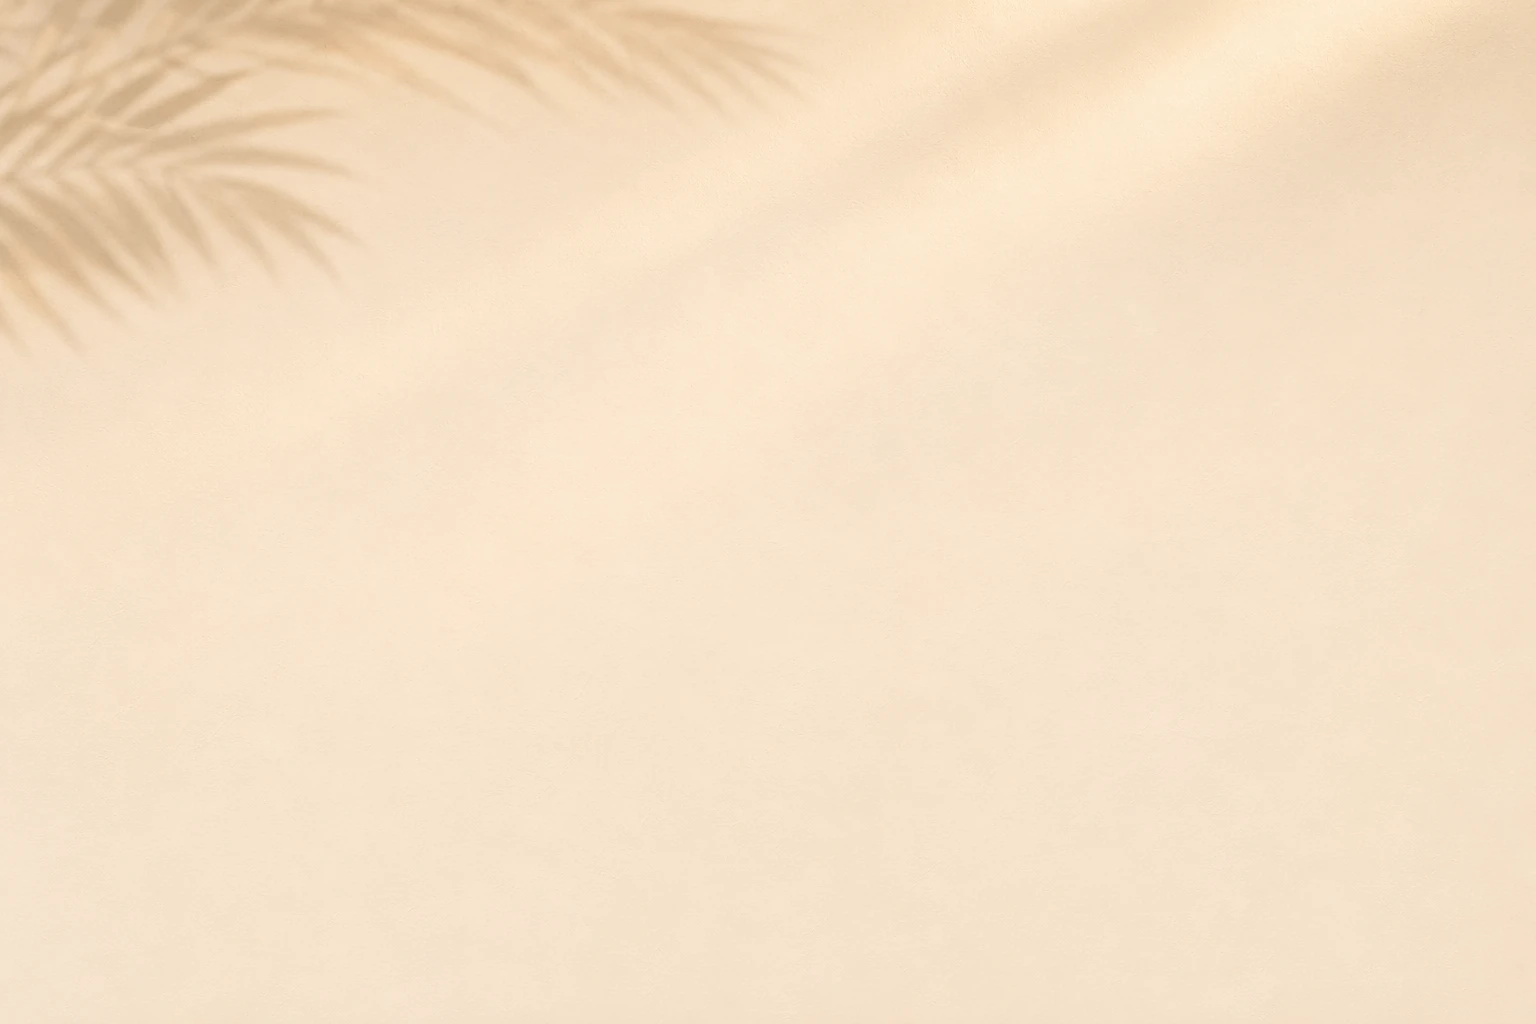
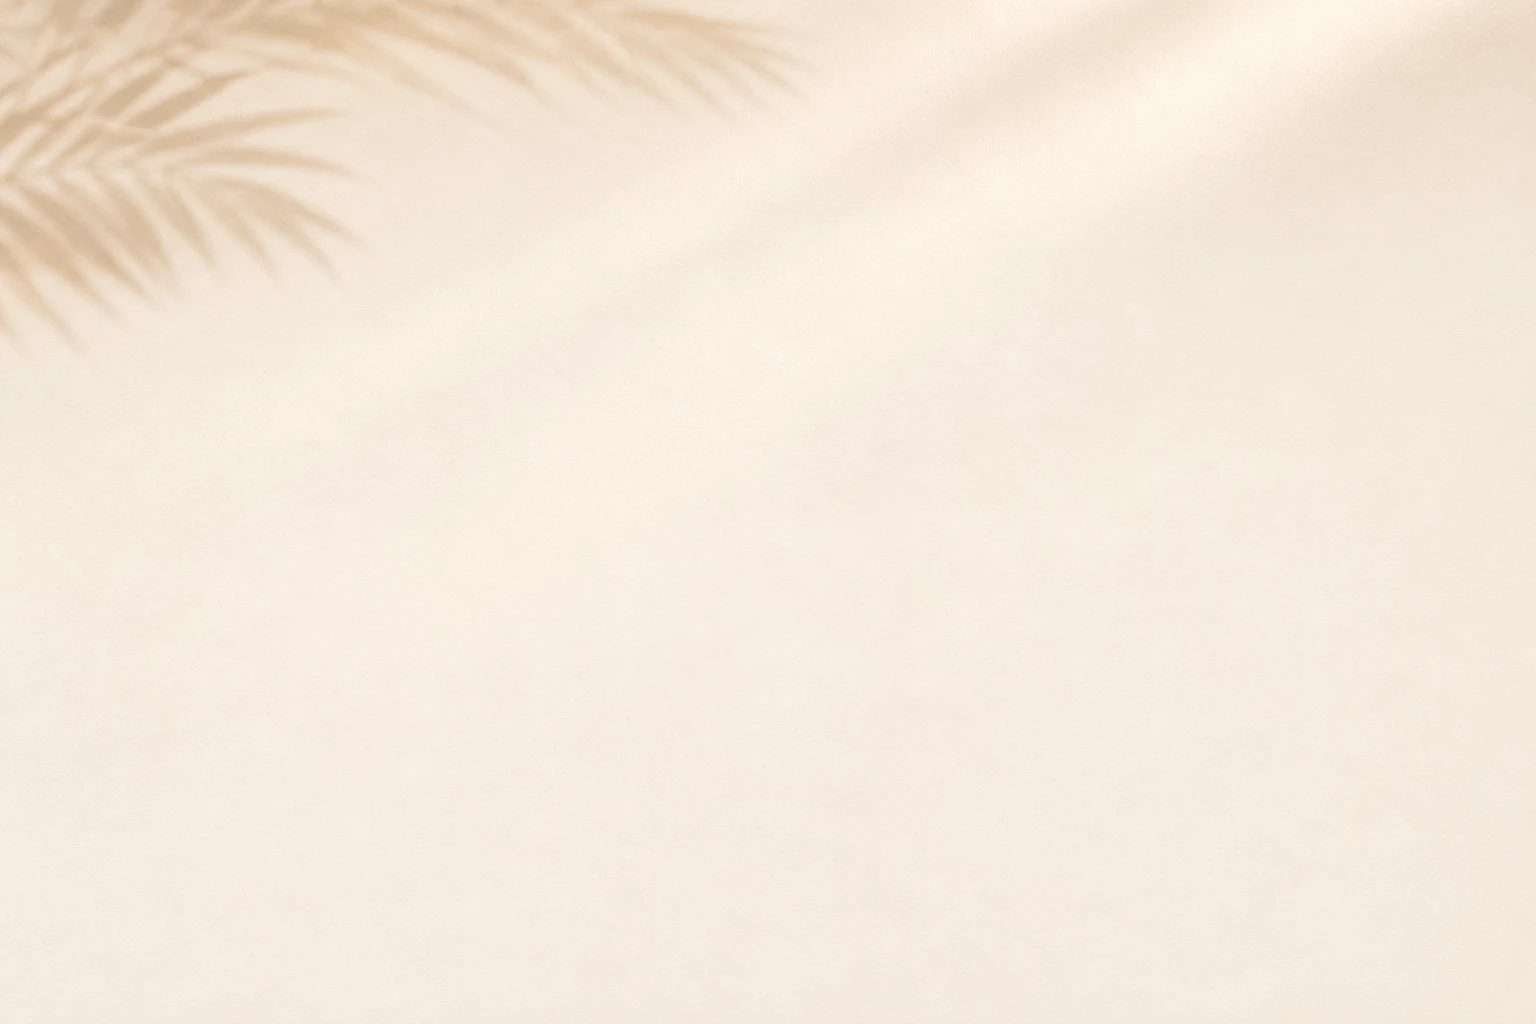
Grade the closing wall to Amelia's cream and keep her fronds above the words
The photo is graded to her wall's pale cream: its wall was apricot, about
twice as saturated as hers, while its frond shadows were already her warm
tan, so the chroma is halved on the wall and mostly kept in the shadows.

On a phone the photo is held at its top and centre, and the words start
88px down, so the fronds frame the top left above the heading, as hers do,
instead of running behind its first words.

The band waits in the wall's colour, and in the dark theme in the dimmed
wall's colour, not page black. The button's focus ring takes the deeper
gold on the wall. In print, the divider's rules are borders, so paper that
drops backgrounds no longer prints them as white lines across the wall.

The test reads the homepage's own rules by scope and pins the stacking,
padding, hold, positions, fills, dark dimming, its print reset and their
order, the divider's print borders and the dark theme's floor.

diff --git a/tests/build.test.ts b/tests/build.test.ts
@@ -511,18 +511,18 @@ describe('the homepage, in her six sections', () => {
     expect(closing).toContain('href="/ja/contact"');
   });
 
-  // Her contact call (06) stands on a warm wall in late sun, palm fronds'
-  // shadows at its top left: a band the page's full width, from under the
-  // reservation note to the footer, with no line between. The photo only
-  // sets the light (empty alt) and is below the fold (lazy). Held at its
-  // top left, as she asks a phone to crop it; in the dark theme it dims
-  // under the light words.
+  // Her contact call (06) stands on a pale cream wall in late sun, palm
+  // fronds' shadows at its top left: a band the page's full width, from
+  // under the reservation note to the footer, with no line between. The
+  // photo only sets the light (empty alt) and is below the fold (lazy). On
+  // a phone it is held at its top and centre, with the words about a quarter
+  // of the width down, under the fronds; in the dark theme it dims under the
+  // light words, and a printed page is cream from either theme.
   it('stands her closing call on a sunlit wall with palm shadows, into the footer', () => {
     for (const route of ['/', '/ja']) {
       const closing = html(route).match(/<section class="section closing[\s\S]*?<\/section>/)?.[0] ?? '';
       const invite = closing.slice(closing.indexOf('<div class="invite"'));
       expect(invite.indexOf('<h2'), route).toBeGreaterThan(-1);
-      expect(invite.indexOf('<picture'), 'the photo after the words').toBeGreaterThan(invite.indexOf('closing__cta'));
       expect(closing.indexOf('class="reservation plate"'), 'the note before the wall').toBeLessThan(closing.indexOf('<div class="invite"'));
       const img = invite.match(/<img [^>]*>/)?.[0] ?? '';
       expect(img, route).toMatch(/\/_astro\/palm-shadows-plaster\./);
@@ -534,15 +534,74 @@ describe('the homepage, in her six sections', () => {
       const main = html(route).match(/<main[^]*<\/main>/)?.[0] ?? '';
       expect(main.lastIndexOf('<section'), route).toBe(main.indexOf('<section class="section closing'));
     }
-    const rules = css();
-    expect(rules).toMatch(
-      /\.invite\[data-astro-cid-[^\]]+\]\{(?=[^}]*isolation:isolate)(?=[^}]*margin:clamp\(32px,\s?5vw,\s?48px\) calc\(-1 \* var\(--gutter\)\) calc\(-1 \* var\(--section-y\)\))[^}]*\}/,
+
+    // Every rule below is the homepage's own, by its scope.
+    const cid = html('/').match(/<div class="invite"[^>]* data-astro-cid-(\w+)/)?.[1];
+    expect(cid, "the homepage's scope").toBeTruthy();
+    const scoped = (selector: string) => selector.replace(/@/g, `[data-astro-cid-${cid}]`);
+    const rule = (selector: string, from = css()) =>
+      [...from.matchAll(/([^{}]+)\{([^{}]*)\}/g)]
+        .filter(([, s]) => s.trim() === scoped(selector))
+        .flatMap(([, , body]) => body.split(';'));
+
+    // The band: the page's full width, from under the note into the footer,
+    // the words about a quarter of a phone's width down, waiting in the wall's
+    // colour. Its stacking keeps the photo behind the words and inside it.
+    expect(rule('.invite@')).toEqual(
+      expect.arrayContaining([
+        'position:relative',
+        'isolation:isolate',
+        'margin:clamp(32px, 5vw, 48px) calc(-1 * var(--gutter)) calc(-1 * var(--section-y))',
+        'padding:clamp(88px, 9vw, 96px) var(--gutter) var(--section-y)',
+        'background:#f5ebe0',
+      ]),
     );
-    expect(rules).toMatch(
-      /\.invite__photo\[data-astro-cid-[^\]]+\]\{(?=[^}]*position:absolute)(?=[^}]*z-index:-1)(?=[^}]*object-fit:cover)(?=[^}]*object-position:0 0)[^}]*\}/,
+    // The photo fills it, held at its top and centre, sized, not set by
+    // inset, which Safari before 14.1 cannot read.
+    const photo = rule('.invite__photo@');
+    expect(photo).toEqual(
+      expect.arrayContaining([
+        'position:absolute',
+        'top:0',
+        'left:0',
+        'z-index:-1',
+        'width:100%',
+        'height:100%',
+        'object-fit:cover',
+        'object-position:50% 0',
+      ]),
     );
-    expect(rules).toMatch(/html\[data-theme=dark\] \.invite__photo\[data-astro-cid-[^\]]+\]\{filter:brightness\(\.3\)\}/);
-    expect(rules).toMatch(/body:has\(\.invite__photo\) \.site-footer\{border-top-color:(?:transparent|#0000)\}/);
+    expect(photo.join(';'), 'set by inset').not.toMatch(/(?:^|;)inset:/);
+    expect(rule('html:not([data-theme=dark]) .invite@')).toContain('--gold-text:#6e5613');
+
+    // Dimmed in the dark theme, waiting in the dimmed wall's colour; on
+    // paper, cream again, by rules that come after the ones they undo.
+    const sheet = css();
+    const dimmed = rule('html[data-theme=dark] .invite__photo@', sheet).find((d) => d.startsWith('filter:'));
+    expect(dimmed).toBe('filter:brightness(.3)');
+    expect(rule('html[data-theme=dark] .invite@', sheet)).toContain('background:#4a4743');
+    const printed = within(/^print$/);
+    expect(rule('html[data-theme=dark] .invite@', printed)).toContain('background:#f5ebe0');
+    expect(rule('html[data-theme=dark] .invite__photo@', printed)).toContain('filter:none');
+    for (const [screen, paper] of [
+      ['html[data-theme=dark] .invite@{background:#4a4743}', 'html[data-theme=dark] .invite@{background:#f5ebe0}'],
+      ['html[data-theme=dark] .invite__photo@{filter:brightness(.3)}', 'html[data-theme=dark] .invite__photo@{filter:none}'],
+    ]) {
+      expect(sheet.indexOf(scoped(screen)), screen).toBeGreaterThan(-1);
+      expect(sheet.indexOf(scoped(paper)), `${paper} after ${screen}`).toBeGreaterThan(sheet.indexOf(scoped(screen)));
+    }
+    // Her divider's rules print as borders: paper drops a background, and
+    // Chromium prints a dropped one white, across the wall.
+    expect(rule('.closing__text@ .divider__rule', printed)).toEqual(
+      expect.arrayContaining(['border-top:1px solid var(--hairline)', 'height:0']),
+    );
+    expect(sheet).toMatch(/body:has\(\.invite__photo\) \.site-footer\{border-top-color:(?:transparent|#0000)\}/);
+
+    // In the dark theme the dimming is what keeps the light words legible:
+    // over the worst a photo can do, a pure-white pixel at 30%, the ink
+    // still clears 4.5:1.
+    const grey: RGB = [255 * 0.3, 255 * 0.3, 255 * 0.3];
+    expect(ratio(solid(dark(), 'ink'), grey), 'ink on the dimmed wall').toBeGreaterThanOrEqual(4.5);
   });
 });
 
